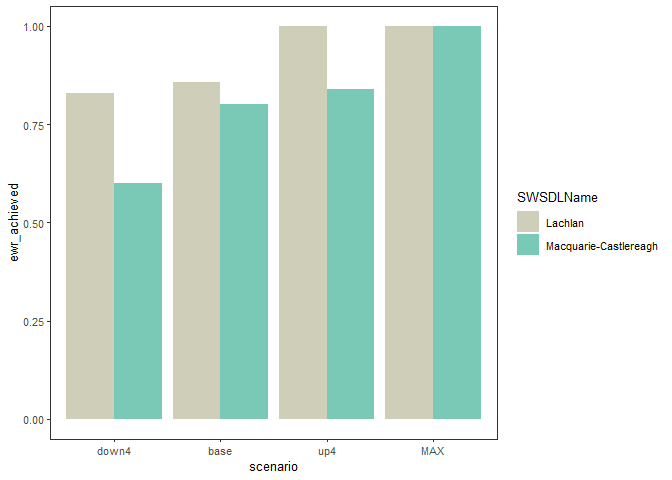
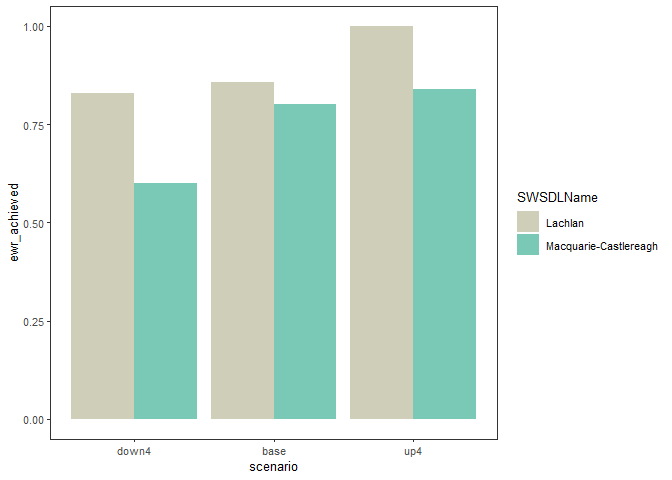
render readme

diff --git a/README.md b/README.md
@@ -16,6 +16,9 @@ toolkit developed for the [climate adaptation
 theme](https://www.mdba.gov.au/climate-and-river-health/murray-darling-water-and-environment-research-program/climate-adaptation)
 of the [*Murray–Darling Water and Environment Research
 Program*](https://www.mdba.gov.au/climate-and-river-health/murray-darling-water-and-environment-research-program)*.*
+HydroBOT is described at [(Holt et
+al. 20205)](https://doi.org/10.1016/j.envsoft.2025.106579).
+
 HydroBOT ingests hydrological scenarios representing historical or
 future climates or adaptation options, and processing those through
 various response models (currently [MDBA EWR
@@ -276,3 +279,12 @@ a program of the [Murray-Darling Basin
 Authority](https://www.mdba.gov.au/). Collaboration with colleagues from
 Deakin University, CSIRO, and the MDBA were essential to its development
 and success.
+
+## Citing HydroBOT
+
+Please cite HydroBOT as
+
+Holt, Galen, Georgia Dwyer, David Robertson, Martin Job, and Rebecca E.
+Lester. 2025. *HydroBOT: An Integrated Toolkit for Assessment of
+Hydrology-Dependent Outcomes.* Environmental Modelling & Software, June,
+106579. <https://doi.org/10.1016/j.envsoft.2025.106579>.
